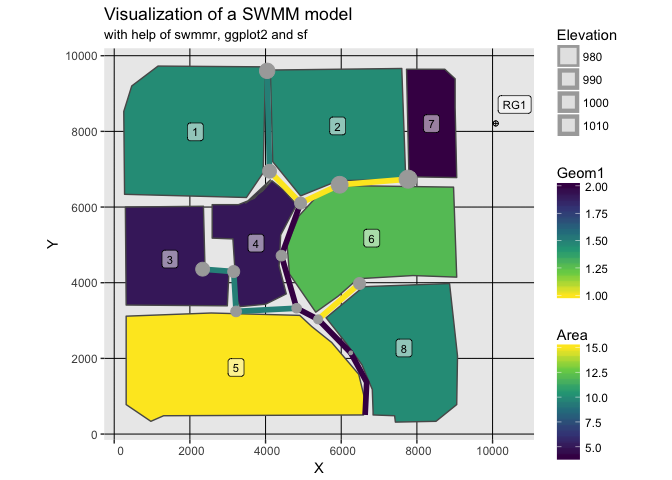
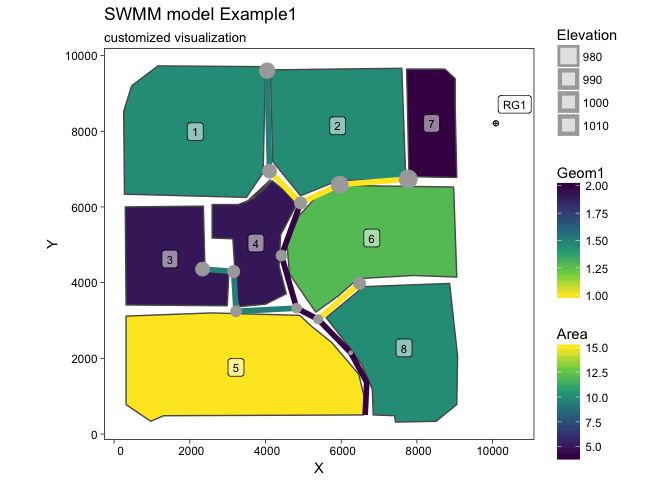
minor update

diff --git a/README.md b/README.md
@@ -278,9 +278,12 @@ ggplot() +
   # change scales
   scale_fill_viridis_c() +
   scale_colour_viridis_c(direction = -1) +
+  # change theme
+  theme_linedraw() +
+  theme(panel.grid.major = element_line(colour = "white")) +
   # add labels
-  labs(title = "Visualization of a SWMM model", 
-       subtitle = "with help of swmmr, ggplot2 and sf")
+  labs(title = "SWMM model Example1", 
+       subtitle = "customized visualization")
 ```
 
 ![](man/figures/README-visualization-2.png)<!-- -->
